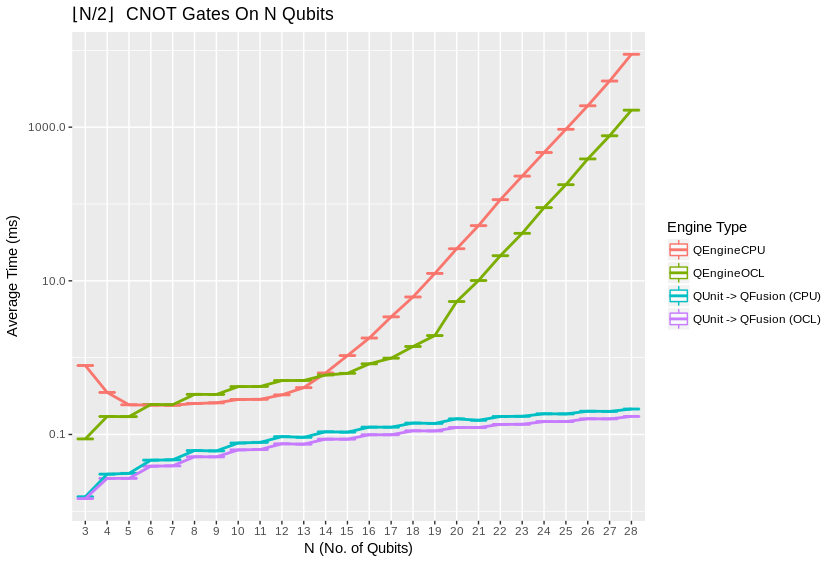
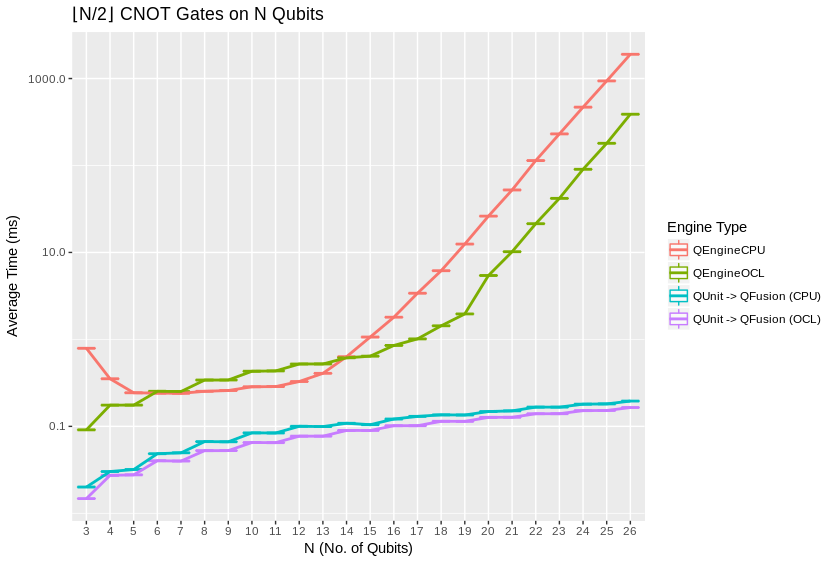
V3 Performance

diff --git a/docs/performance.rst b/docs/performance.rst
@@ -47,8 +47,11 @@ engine type, (per [Pednault2017]_,) and "QFusion" provides a "gate fusion"
 layer. A "QEngine" type is always the base layer, and QUnit and QFusion types 
 may be layered over these, and over each other.
 
-Future publications will compare the performance of Qrack against other
-publicly available simulators, as rigorous implementations can be implemented.
+This version of the Qrack benchmarks contains comparisons against other
+publicly available simulators, specifically QCGPU and ProjectQ (with its
+default simulator). Note that Qrack has been incorporated as an optional
+back end for ProjectQ, in a fork maintained by the developers of Qrack, and
+benchmarks for its performance will follow.
 
 Reader Guidance
 ===============
@@ -72,7 +75,11 @@ Disclaimers
 Method
 ******
 
-100 timed trials of single and parallel gates were run for each qubit count between 3 and 28 qubits. CPU and GPU benchmarks were run on two respective systems that could represent realistic use cases for each engine type. An AWS p3.2xlarge running Ubuntu Server 18.04LTS was used for GPU benchmarks. An Alienware 17 R5 with an Intel(R) Core(TM) i7-8750H running Ubuntu 18.04LTS was used for CPU benchmarks. The average and quartile boundary values of each set of 100 were recorded and graphed. Grover's search to invert a black box subroutine, or "oracle," was similarly implemented for trials between 3 and 18 qubits. Grover's algorithm was iterated an optimal number of times, vs. qubit count, to maximize probability on a half cycle of the algorithm's period, being :math:`floor\left[\frac{\pi}{4asin\left(1/\sqrt{2^N}\right)}\right]` iterations for :math:`N` qubits. A quantum fourier transform was run for 100 trials between 3 and 26 qubits on the GPU engine types.
+100 timed trials of single and parallel gates were run for each qubit count between 3 and 28 qubits. The benchmarking code is available at `https://github.com/vm6502q/qrack/blob/master/test/benchmarks.cpp <https://github.com/vm6502q/qrack/blob/master/test/benchmarks.cpp>`_, in which qubit count can be set and tests can be commented out to reduce to the relevant subset. CPU and GPU benchmarks were run on two respective systems that could represent realistic use cases for each engine type. An AWS p3.2xlarge running Ubuntu Server 18.04LTS was used for GPU benchmarks. An Alienware 17 R5 with an Intel(R) Core(TM) i7-8750H running Ubuntu 18.04LTS was used for Qrack CPU benchmarks. The test results were collected from 11/25/18 to 12/2/18. The average and quartile boundary values of each set of 100 were recorded and graphed. Grover's search to invert a black box subroutine, or "oracle," was similarly implemented for trials between 3 and 18 qubits. Grover's algorithm was iterated an optimal number of times, vs. qubit count, to maximize probability on a half cycle of the algorithm's period, being :math:`floor\left[\frac{\pi}{4asin\left(1/\sqrt{2^N}\right)}\right]` iterations for :math:`N` qubits.
+
+A quantum fourier transform was run for 100 trials between 3 and 26 qubits on the GPU engine types. ProjectQ and QCGPU were also benchmarked for this test, on an AWS p3.2xlarge running Ubuntu Server 18.04LTS, with the benchmarking code provided by QCGPU, accessed from its Github repository on 12/1/18, in Python 3. The benchmarking script from QCGPU iterates at random between the engine options. 200 total trials were run for the set of QCGPU and ProjectQ, selected by approximately equal probability random chance in each of the 200 iterations.
+
+QFT iterations were "chained" in a unitary manner starting from the |0> permutation state, such that every other step entangled and unentangled the full set of qubits. This is a representative test of Qrack::QUnit performance, because it varies largely with degree of representational entanglement. QUnit explicitly separates the representation of qubit subsystems when it can, such that performance differs greatly between entirely separable and entirely entangled cases, hence we need to show best and worst cases. Separability considerations do not affect maximally entangled representations, as are all other simulators tested here, (though ProjectQ includes a compilation layer on top of its default simulator). 
 
 Heap profiling was carried out with Valgrind Massif. Heap sampling was limited but ultimately sufficient to show statistical confidence.
 
@@ -95,20 +102,28 @@ Heap sampling showed high confidence adherence to theoretical expecations. Compl
 
 .. image:: performance/qrack_ram.png
 
+QUnit explicitly separates its representation of the quantum state and may operate with much less RAM, but QEngine's RAM usage represents approximately the worst case for QUnit, of maximal entanglement.
+
 Grover's algorithm is a relatively ideal test case, in that it allows a modicum of abstraction in implementation while representing an ostensibly practical and common task for truly quantum computational hardware. For 1 expected correct function inversion result, there is a well-defined highest likelihood search iteration count on half a period of the algorithm for a given number of oracle input permutations to search. This graphs shows average time against qubit count for an optimal half period search:
 
 .. image:: performance/grovers.png
 
 [Broda2016]_ discusses how Grover's might be adapted in practicality to actually "search an unstructured database," or search an unstructured lookup table, and Qrack is also capable of applying Grover's search to a lookup table with its IndexedLDA, IndexedADC, and IndexedSBC methods. Benchmarks are not given for this arguably more practical application of the algorithm, because few other quantum computer simulator libraries implement it, yet.
 
-The Quantum Fourier transform (QFT) is another realistic test case. QEngineCPU took approximately 100 seconds per 1 trial (of 100) for 22 qubits and approximately 200 seconds for a 23 qubit QFT, and testing the QEngineCPU type therefore become prohibitive, for the full range of qubits between 3 and 26. To avoid confusion in the graph, and since QEngineCPU might therefore be impractical for large QFTs, we leave both it and its QUnit/QFusion variant off the graph. At the end of every QFT trial, explicit separability was reset with a measurement operation across the entire Fourier-transformed unit of qubits, i.e. every trial was the ideal case for QUnit of entirely separable qubits, which might not always be realistic. However, the whole set is fairly representative of the difference between best case, of total initial separability for QUnit, and worst case, of total entanglement, with QUnit's performance limiting to the QEngine case, plus modest wrapping and separability testing overhead from the QUnit layer. In the best case for QUnit, significant additional overhead is incurred in combining an additional qubit into the bulk QEngine at each step.
+The Quantum Fourier transform (QFT) is another realistic test case. Other simulators were also tested on the QFT. QFT operations were directly "chained," starting from the |0> permutation state. Qrack::QUnit was able to recover full (or virtually full) separability of qubits at every other step of 100 iterations, oscillating between modes of the "entangled" and "separable" QUnit median trends shown in the graph.
+
+QEngineCPU took approximately 100 seconds per 1 trial (of 100) for 22 qubits and approximately 200 seconds for a 23 qubit QFT, and testing the QEngineCPU type therefore become prohibitive, for the full range of qubits between 3 and 26. To avoid confusion in the graph, and since QEngineCPU might therefore be impractical for large QFTs, we leave both it and its QUnit/QFusion variant off the graph.
 
 .. image:: performance/qft.png
+
+For lower numbers of qubits, QEngineOCL outperforms QCGPU. Both simulators follow a smooth exponential trend that appears to reach a knee of faster exponential growth. The "knee" comes at a lower number of qubits for QEngineOCL than for QCGPU, at about 18 qubits versus 24. There is no such "knee" apparent for the QUnit -> QFusion layers on top of a QEngine type. We will analyze the comparative results in the discussion section.
 
 Discussion
 **********
 
 Up to a consistent deviation at low qubit counts, speed and RAM usage is well predicted by theoretical complexity considerations of the gates, up to a factor of 2 on heap usage for duplication of the state vector.
+
+In the comparative QFT benchmarks, the difference between QCGPU and Qrack in the "knee" in the base engine might be partially do to scalable work distribution in the OpenCL kernels. QEngineOCL is written to distribute work among an arbitrarily small number of processing elements and max work item size. Max work item size is a device-specific hardware parameter limiting how many work items may be dispatched in an OpenCL kernel call. QEngineOCL can distribute large numbers of probability amplitude transformations to small numbers of work items, incurring additional looping overhead, whereas QCGPU is written to dispatch one work item to one processing element. QCGPU requires a large enough hardware max work item size to add higher numbers of qubits, which might or not might not prove prohibitive in addressing the largest possible amount of general RAM. Additionally, Qrack normalizes its state vector at on-the-fly opportunities, to correct for float rounding error, incurring overhead costs but benefiting the accuracy of the simulation over very long strings of gate applications.
 
 Further Work
 ************
@@ -119,7 +134,7 @@ Qrack has been successfully run on multiple processors at once, and even on clus
 
 With a new generation of "VPU" processors coming in 2019, (for visual inference,) it might be possible to co-opt VPU capabilities for inference of raw state vector features, such as Schmidt separability, to improve the performance of QUnit. The authors of Qrack have just started looking at this hardware for this purpose.
 
-We will also develop and maintain systematic comparisons to published benchmarks of quantum computer simulation standard libraries, as they arise.
+We will maintain systematic comparisons to published benchmarks of quantum computer simulation standard libraries, as they arise.
 
 Conclusion
 **********
